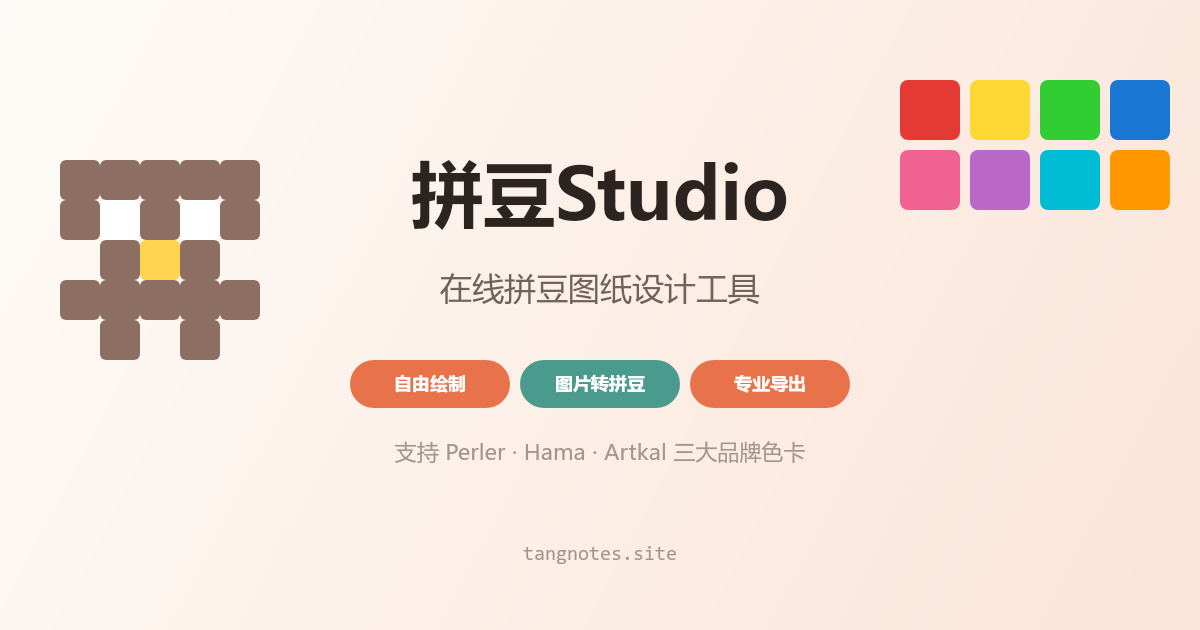
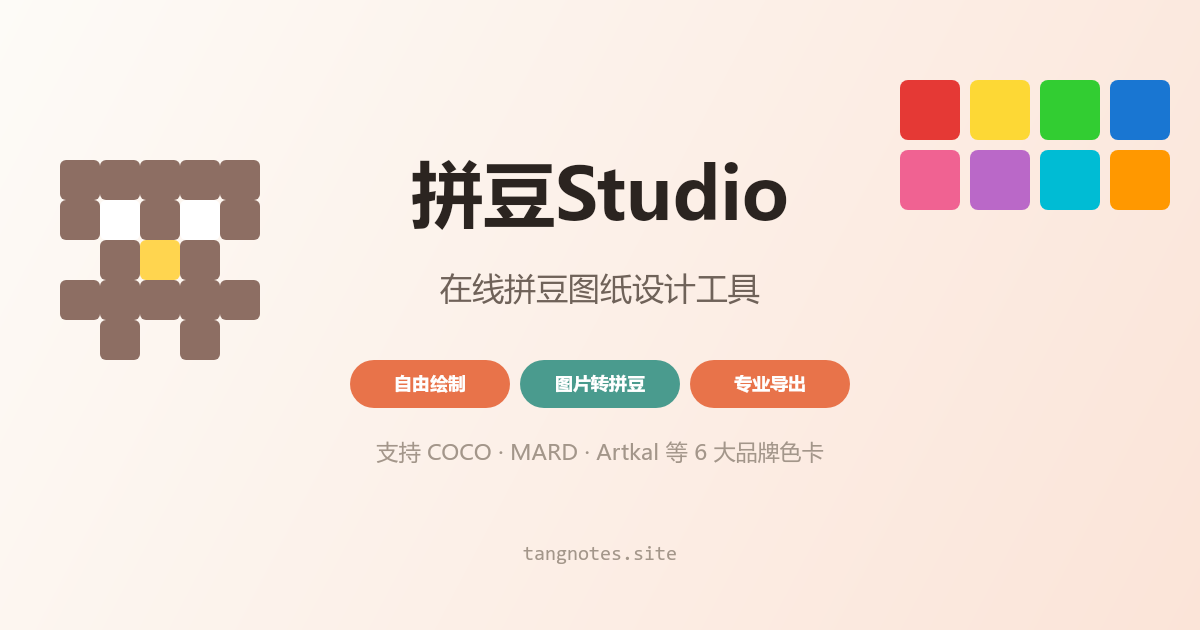
seo: 文案与最新状态同步 — 免费/像素/图纸生成 + 六大品牌色卡
- 标题改为「免费在线拼豆图纸生成,图片转像素拼豆,COCO/MARD/Artkal等6大色卡」:
  加入拼豆爱好者关注词(免费、像素、图纸生成),色卡取舍保留贴近中国用户的中国品牌
  (COCO/MARD/Artkal,产地数据),并声明覆盖 6 大品牌
- 描述/关键词/og/twitter 同步:补 像素/免费/拼豆图纸生成 等词;品牌全列出
  (COCO/MARD/MARD291/Perler/Hama/Artkal,含 MARD291 扩展系)
- JSON-LD(SoftwareApplication/WebSite)与 App.jsx Helmet 运行时文案同步,og:image 补 png
- LegalPages 两处旧「三大品牌」功能描述更新为六大品牌
- 分享图(og-image.svg/.png + 生成器)品牌行更新为 COCO·MARD·Artkal 等 6 大品牌

Changed region(s): [[0.3083, 0.6937, 0.6783, 0.754]]

diff --git a/index.html b/index.html
@@ -11,9 +11,9 @@
   <meta name="viewport" content="width=device-width, initial-scale=1.0, viewport-fit=cover, interactive-widget=resizes-content" />
 
   <!-- ── 基础 SEO ────────────────────────────────────────────── -->
-  <title>拼豆Studio | 在线拼豆图纸设计工具·图片转拼豆,支持Perler/Hama/Artkal</title>
-  <meta name="description" content="在线免费拼豆图纸设计工具。四种工具自由绘制；上传图片一键转拼豆，CIEDE2000精准配色，支持Perler/Hama/Artkal色卡；一键导出带色号的专业PNG/SVG图纸。拼豆爱好者与亲子创作都适用。" />
-  <meta name="keywords" content="拼豆,拼豆图纸,拼豆设计,拼豆图案,拼豆图纸设计工具,拼豆图纸生成器,图片转拼豆,拼豆配色,拼豆教程,Perler拼豆,Hama拼豆,Artkal拼豆,拼豆图纸导出,在线拼豆工具,像素画,珠珠画,bead pattern,perler beads" />
+  <title>拼豆Studio - 免费在线拼豆图纸生成,图片转像素拼豆|COCO/MARD/Artkal等6大色卡</title>
+  <meta name="description" content="免费的在线拼豆图纸生成工具：自由绘制或上传图片一键转像素拼豆，CIEDE2000精准配色；支持 COCO/MARD/Artkal 等 6 大品牌色卡与专业 PNG/SVG 图纸导出，新手与亲子友好。" />
+  <meta name="keywords" content="拼豆,拼豆图纸,拼豆图纸生成,拼豆图纸生成器,拼豆设计,免费拼豆工具,在线拼豆,图片转拼豆,照片转拼豆,像素画,像素拼豆,像素图,拼豆配色,COCO拼豆,MARD拼豆,MARD291拼豆,Perler拼豆,Hama拼豆,Artkal拼豆,拼豆品牌色卡,拼豆教程,拼豆图纸导出,bead pattern,perler beads,bead art,pixel art" />
   <meta name="author" content="拼豆Studio" />
   <meta name="robots" content="index, follow, max-image-preview:large, max-snippet:-1, max-video-preview:-1" />
   <link rel="canonical" href="https://tangnotes.site/" />
@@ -28,8 +28,8 @@
   <!-- ── Open Graph (微信/微博/Facebook 分享预览) ───────────── -->
   <meta property="og:type" content="website" />
   <meta property="og:site_name" content="拼豆Studio" />
-  <meta property="og:title" content="拼豆Studio - 在线拼豆图纸设计工具" />
-  <meta property="og:description" content="免费在线拼豆图纸设计工具，上传图片一键转拼豆图案，支持Perler/Hama/Artkal三大品牌色卡，导出专业级PNG/SVG图纸。" />
+  <meta property="og:title" content="拼豆Studio | 免费在线拼豆图纸生成·图片转像素拼豆" />
+  <meta property="og:description" content="免费的在线拼豆图纸生成工具：上传图片一键转像素拼豆，CIEDE2000精准配色，支持COCO/MARD/Artkal等6大品牌色卡，导出带色号的专业PNG/SVG图纸。" />
   <meta property="og:url" content="https://tangnotes.site/" />
   <meta property="og:locale" content="zh_CN" />
   <meta property="og:locale:alternate" content="en_US" />
@@ -43,8 +43,8 @@
 
   <!-- ── Twitter Card ───────────────────────────────────────── -->
   <meta name="twitter:card" content="summary_large_image" />
-  <meta name="twitter:title" content="拼豆Studio - 在线拼豆图纸设计工具" />
-  <meta name="twitter:description" content="免费在线拼豆图纸设计工具，上传图片一键转拼豆图案，支持Perler/Hama/Artkal三大品牌色卡。" />
+  <meta name="twitter:title" content="拼豆Studio | 免费在线拼豆图纸生成·图片转像素拼豆" />
+  <meta name="twitter:description" content="免费的在线拼豆图纸生成工具：上传图片一键转像素拼豆，支持COCO/MARD/Artkal等6大品牌色卡，导出带色号的专业PNG/SVG图纸。" />
   <meta name="twitter:image" content="https://tangnotes.site/og-image.png" />
 
   <!-- ── 浏览器 / PWA ───────────────────────────────────────── -->
@@ -64,9 +64,9 @@
     "@type": "SoftwareApplication",
     "name": "拼豆Studio",
     "alternateName": ["Bead Studio", "拼豆图纸设计工具"],
-    "description": "免费在线拼豆图纸设计工具，支持自由绘制、图片智能转拼豆、三大品牌色卡配色、专业级PNG/SVG图纸导出。",
+    "description": "免费在线拼豆图纸生成工具，支持自由绘制、图片智能转像素拼豆、COCO/MARD/MARD291/Perler/Hama/Artkal六大品牌色卡配色、专业级PNG/SVG图纸导出。",
     "url": "https://tangnotes.site/",
-    "image": "https://tangnotes.site/og-image.svg",
+    "image": "https://tangnotes.site/og-image.png",
     "applicationCategory": "DesignApplication",
     "operatingSystem": "Web",
     "offers": {
@@ -76,9 +76,9 @@
     },
     "featureList": [
       "自由绘制拼豆图案（画笔/橡皮/填充/抓手）",
-      "图片一键智能转换为拼豆图纸",
+      "图片一键智能转换为像素拼豆图纸",
       "CIEDE2000感知均匀算法精准配色",
-      "支持Perler、Hama、Artkal三大品牌色卡",
+      "支持COCO、MARD、MARD291、Perler、Hama、Artkal六大品牌色卡",
       "导出专业级PNG/SVG拼豆图纸",
       "Floyd-Steinberg与Bayer抖动算法",
       "内置8个预设模板与18篇拼豆教程",
@@ -108,7 +108,7 @@
     "@type": "WebSite",
     "name": "拼豆Studio",
     "url": "https://tangnotes.site/",
-    "description": "免费在线拼豆图纸设计工具，支持自由绘制、图片智能转拼豆、三大品牌色卡配色、专业级PNG/SVG图纸导出。"
+    "description": "免费在线拼豆图纸生成工具，支持自由绘制、图片智能转像素拼豆、COCO/MARD/MARD291/Perler/Hama/Artkal六大品牌色卡配色、专业级PNG/SVG图纸导出。"
   }
   </script>
 </head>

diff --git a/src/App.jsx b/src/App.jsx
@@ -817,8 +817,8 @@ export default function App() {
   // ── 每页动态 SEO(不改变功能与界面)───────────────────────
   const SEO_CONFIG = {
     canvas: {
-      title: '拼豆Studio - 在线拼豆图纸设计工具 | 图片转拼豆 · 支持Perler/Hama/Artkal',
-      desc: '免费的在线拼豆图纸设计工具。支持画笔、橡皮、填充、抓手工具自由绘制拼豆图案；上传图片一键智能转换为拼豆图纸(CIEDE2000精准配色)；支持Perler、Hama、Artkal三大品牌色卡；导出专业级PNG/SVG图纸，带色号标注与颜色清单。',
+      title: '拼豆Studio - 免费在线拼豆图纸生成,图片转像素拼豆|COCO/MARD/Artkal等6大色卡',
+      desc: '免费的在线拼豆图纸生成工具：自由绘制或上传图片一键转像素拼豆，CIEDE2000精准配色；支持 COCO/MARD/Artkal 等 6 大品牌色卡与专业 PNG/SVG 图纸导出，新手与亲子友好。',
     },
     gallery: {
       title: '拼豆图库与模板 - 拼豆Studio',
@@ -866,7 +866,7 @@ export default function App() {
       <meta property="og:description" content={seo.desc} />
       <meta property="og:url" content={canonical} />
       <meta property="og:type" content="website" />
-      <meta property="og:image" content="https://tangnotes.site/og-image.svg" />
+      <meta property="og:image" content="https://tangnotes.site/og-image.png" />
       <meta name="twitter:card" content="summary_large_image" />
     </Helmet>
   )

diff --git a/src/components/LegalPages.jsx b/src/components/LegalPages.jsx
@@ -689,7 +689,7 @@ const TERMS_VERSIONS = [
           <ul>
             <li>在线绘制拼豆图案（画笔、橡皮、填充、抓手工具）</li>
             <li>上传图片智能转换为拼豆图案（基于CIEDE2000色彩匹配算法）</li>
-            <li>支持Perler、Hama、Artkal三大品牌色卡</li>
+            <li>支持COCO、MARD、MARD291、Perler、Hama、Artkal六大品牌色卡</li>
             <li>导出专业级PNG/SVG拼豆图纸</li>
             <li>云端模板库、个人作品管理（保存在您的浏览器本地）与图文教程</li>
             <li>可选账号体系：注册后可跨设备登录，设置昵称与头像</li>
@@ -788,7 +788,7 @@ const TERMS_VERSIONS = [
           <ul>
             <li>在线绘制拼豆图案（画笔、橡皮、填充、抓手工具）</li>
             <li>上传图片智能转换为拼豆图案（基于CIEDE2000色彩匹配算法）</li>
-            <li>支持Perler、Hama、Artkal三大品牌色卡</li>
+            <li>支持COCO、MARD、MARD291、Perler、Hama、Artkal六大品牌色卡</li>
             <li>导出专业级PNG/SVG拼豆图纸</li>
             <li>内置模板库和图文教程</li>
           </ul>

diff --git a/scripts/generate-og-image.js b/scripts/generate-og-image.js
@@ -106,7 +106,7 @@ for (const [x, color, label] of pills) {
 // 品牌行 + 底部 URL
 ctx.fillStyle = '#a3968a'
 ctx.font = '22px "Microsoft YaHei", sans-serif'
-ctx.fillText('支持 Perler · Hama · Artkal 三大品牌色卡', 600, 460)
+ctx.fillText('支持 COCO · MARD · Artkal 等 6 大品牌色卡', 600, 460)
 ctx.font = '20px Consolas, Menlo, monospace'
 ctx.fillText('tangnotes.site', 600, 560)
 
